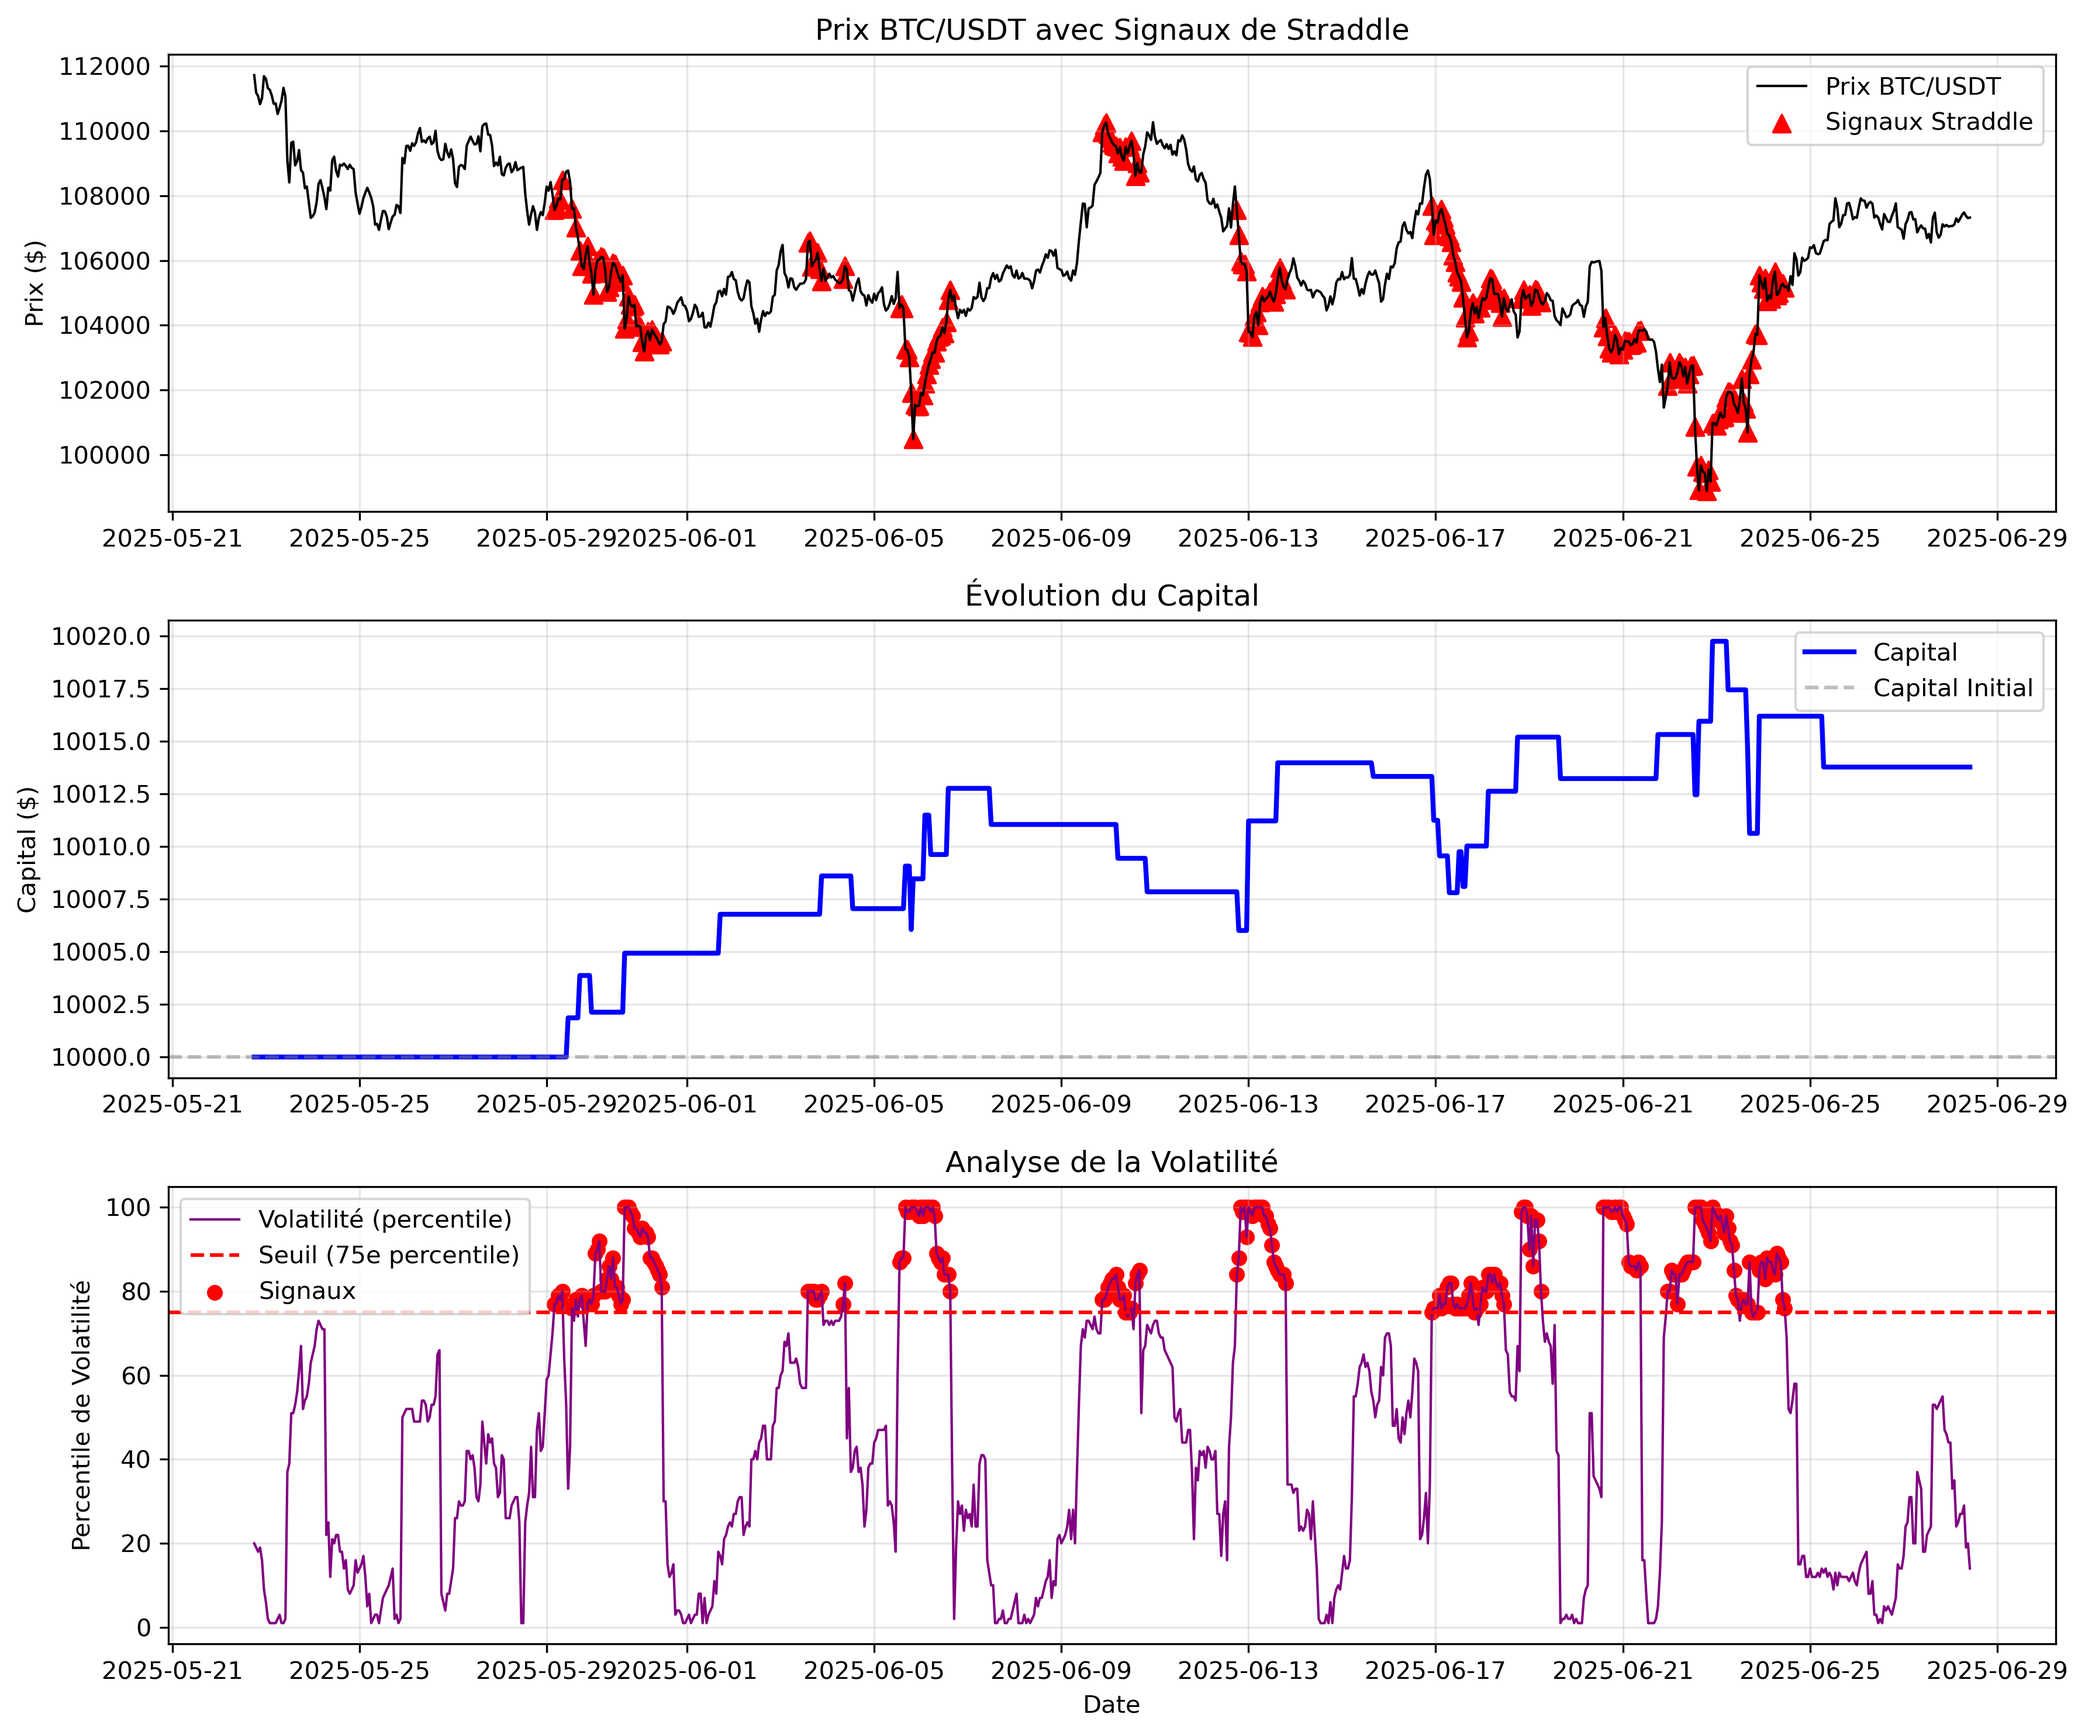
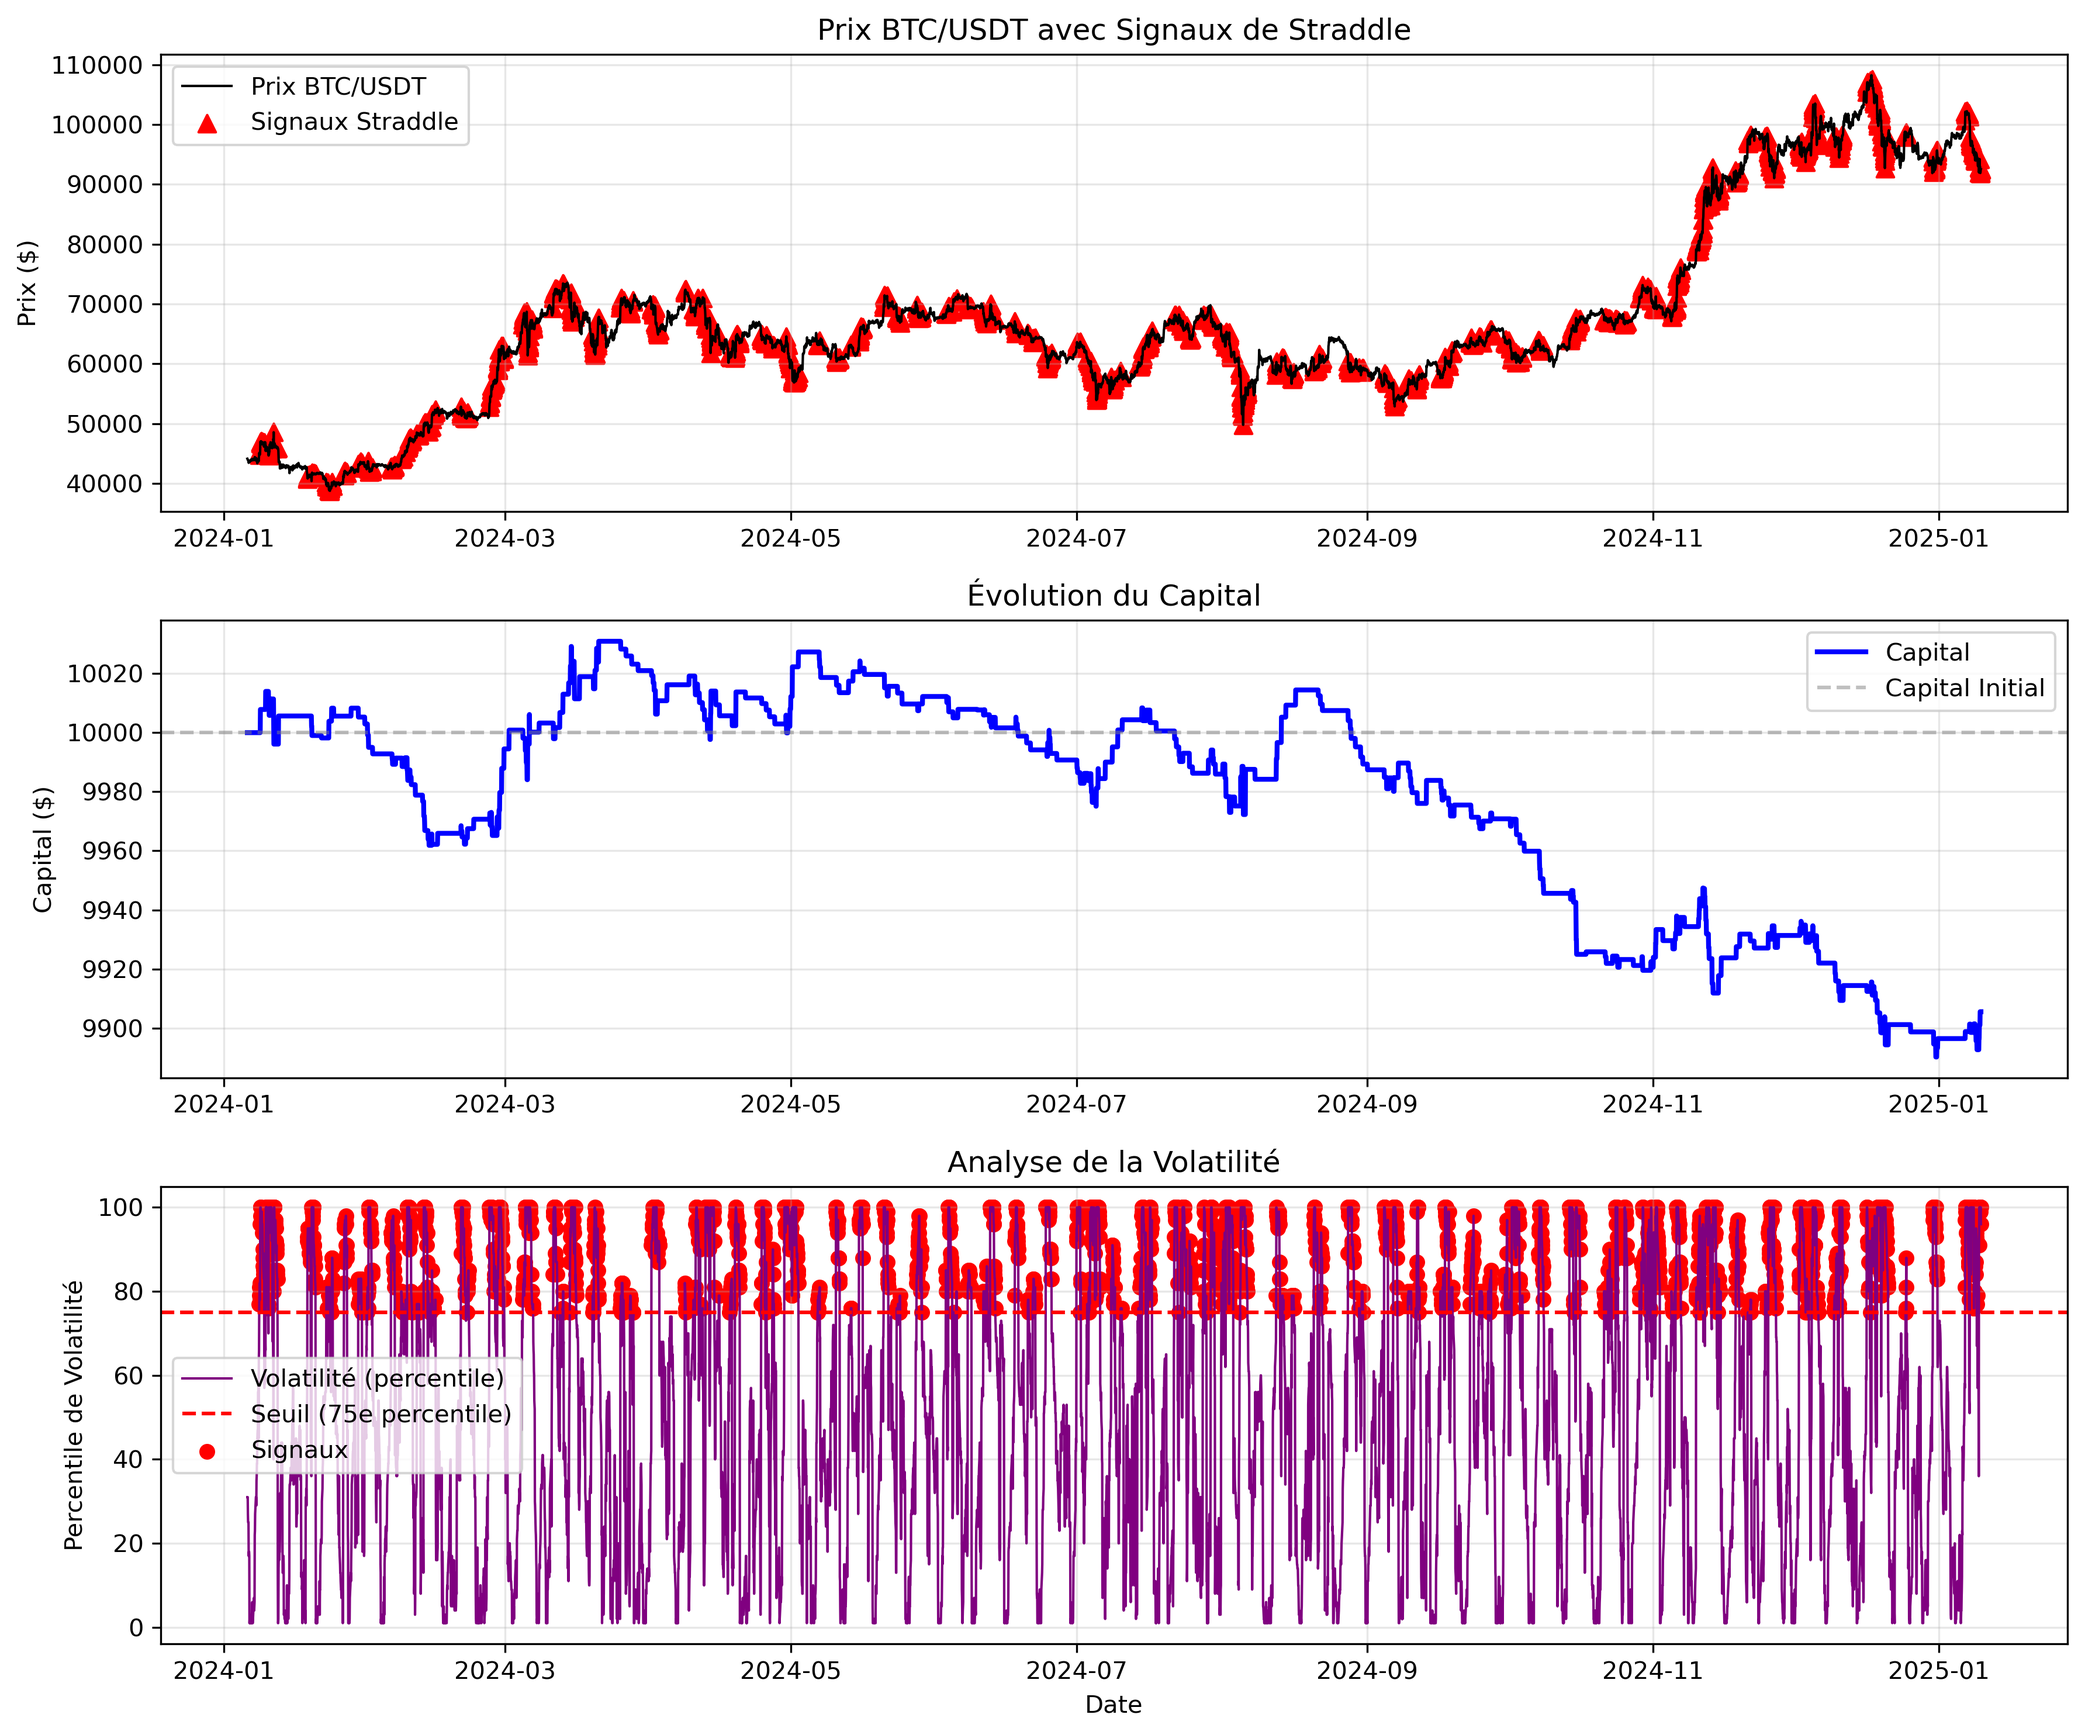
Ajout de la gestion des périodes de données dans la stratégie de straddle, avec des options pour utiliser des dates spécifiques ou un nombre de jours. Mise à jour de la récupération des données et des résultats d'affichage dans le backtest.

diff --git a/test3/data_manager.py b/test3/data_manager.py
@@ -23,56 +23,15 @@ class DataManager:
     
     def get_data(self):
         """
-        Récupère les données BTC/USDT selon la configuration de dates
+        Récupère les données BTC/USDT et calcule les indicateurs
         
         Returns:
             pandas.DataFrame: Données avec indicateurs
         """
         try:
+            # Récupération des données
             print(f"📊 Récupération des données {SYMBOL}...")
-            
-            if USE_DATE_RANGE:
-                # Utiliser les dates spécifiées
-                print(f"� Période: {START_DATE} → {END_DATE}")
-                
-                # Convertir les dates en timestamps
-                start_ts = int(pd.to_datetime(START_DATE).timestamp() * 1000)
-                end_ts = int(pd.to_datetime(END_DATE).timestamp() * 1000)
-                
-                # Récupérer toutes les données pour la période
-                all_data = []
-                current_ts = start_ts
-                
-                while current_ts < end_ts:
-                    # Récupérer par chunks de 1000 (limite API)
-                    data_chunk = self.exchange.fetch_ohlcv(
-                        SYMBOL, TIMEFRAME, since=current_ts, limit=1000
-                    )
-                    
-                    if not data_chunk:
-                        break
-                        
-                    all_data.extend(data_chunk)
-                    current_ts = data_chunk[-1][0] + 1
-                    
-                    # Protection contre les boucles infinies
-                    if len(all_data) > 50000:  # Limite de sécurité
-                        break
-                
-                data = all_data
-            else:
-                # Utiliser les X derniers jours
-                print(f"📅 Récupération des {DAYS_OF_DATA} derniers jours")
-                data = self.exchange.fetch_ohlcv(SYMBOL, TIMEFRAME, limit=DAYS_OF_DATA * 24)
-            
-            # Conversion en DataFrame
-            df = pd.DataFrame(data, columns=['timestamp', 'open', 'high', 'low', 'close', 'volume'])
-            df['timestamp'] = pd.to_datetime(df['timestamp'], unit='ms')
-            df.set_index('timestamp', inplace=True)
-            
-            # Filtrer exactement la période demandée si USE_DATE_RANGE
-            if USE_DATE_RANGE:
-                df = df[(df.index >= START_DATE) & (df.index < END_DATE)]
+            data = self.exchange.fetch_ohlcv(SYMBOL, TIMEFRAME, limit=DAYS_OF_DATA * 24)
             
             # Conversion en DataFrame
             df = pd.DataFrame(data, columns=['timestamp', 'open', 'high', 'low', 'close', 'volume'])

diff --git a/final-test/config.py b/final-test/config.py
@@ -4,7 +4,13 @@
 EXCHANGE_ID = 'binance'
 SYMBOL = 'BTC/USDT'
 TIMEFRAME = '1h'
-DAYS_OF_DATA = 365             # Nombre de jours de données à récupérer
+
+# Période de données (modifiez ces dates selon vos besoins)
+START_DATE = '2024-01-01'      # Date de début (YYYY-MM-DD)
+END_DATE = '2025-01-01'        # Date de fin (YYYY-MM-DD)
+# OU utilisez DAYS_OF_DATA pour les X derniers jours
+USE_DATE_RANGE = True          # True = utiliser START_DATE/END_DATE, False = utiliser DAYS_OF_DATA
+DAYS_OF_DATA = 365             # Nombre de jours de données (si USE_DATE_RANGE = False)
 
 # Paramètres de la stratégie (modifiez ces valeurs selon vos besoins)
 VOLATILITY_THRESHOLD = 75       # Seuil de volatilité (percentile)
@@ -16,3 +22,13 @@ TRADE_TIMEOUT_HOURS = 24        # Fermeture forcée après X heures
 INITIAL_CAPITAL = 10000         # Capital de départ
 RISK_PER_TRADE = 0.02          # 2% de risque par trade
 COMMISSION_RATE = 0.001        # 0.1% de commission
+
+# Paramètres de backtest
+BACKTEST_START_DATE = '2022-01-01'  # Date de début du backtest
+BACKTEST_END_DATE = '2024-12-31'    # Date de fin du backtest
+MAX_POSITIONS = 3                  # Nombre maximum de positions simultanées
+MAX_SPREAD = 0.005                 # Spread maximum acceptable (0.5%)
+MIN_PRICE_MOVEMENT = 0.0001        # Mouvement minimum de prix significatif
+RISK_FREE_RATE = 0.02              # Taux sans risque annuel pour calculs de performance
+OPTIMIZE_PARAMETERS = False        # Activation de l'optimisation des paramètres
+

diff --git a/final-test/main.py b/final-test/main.py
@@ -14,6 +14,16 @@ def main():
     print("🚀 Backtesting Stratégie Straddle - BTC/USDT")
     print("=" * 50)
     
+    # Afficher la configuration actuelle
+    if USE_DATE_RANGE:
+        print(f"📅 Période d'analyse: {START_DATE} → {END_DATE}")
+    else:
+        print(f"📅 Analyse des {DAYS_OF_DATA} derniers jours")
+    
+    print(f"🎯 Seuil volatilité: {VOLATILITY_THRESHOLD}e percentile")
+    print(f"💰 Capital initial: ${INITIAL_CAPITAL:,}")
+    print("-" * 50)
+    
     # Créer le dossier de sortie
     os.makedirs("output", exist_ok=True)
     
@@ -26,7 +36,7 @@ def main():
         print("❌ Erreur lors du chargement des données")
         return
     
-    print(f"✅ {len(df)} bougies chargées")
+    print(f"✅ {len(df)} bougies chargées ({df.index[0].strftime('%Y-%m-%d')} → {df.index[-1].strftime('%Y-%m-%d')})")
     
     # 2. Détection des signaux de trading
     print("🎯 Détection des signaux...")

diff --git a/test3/config.py b/test3/config.py
@@ -1,0 +1,18 @@
+# Configuration simple pour la stratégie de straddle BTC
+
+# Paramètres de base
+EXCHANGE_ID = 'binance'
+SYMBOL = 'BTC/USDT'
+TIMEFRAME = '1h'
+DAYS_OF_DATA = 365             # Nombre de jours de données à récupérer
+
+# Paramètres de la stratégie (modifiez ces valeurs selon vos besoins)
+VOLATILITY_THRESHOLD = 75       # Seuil de volatilité (percentile)
+TAKE_PROFIT_MULTIPLIER = 2.0    # Multiplicateur pour take profit
+STOP_LOSS_MULTIPLIER = 1.0      # Multiplicateur pour stop loss
+TRADE_TIMEOUT_HOURS = 24        # Fermeture forcée après X heures
+
+# Capital et risque
+INITIAL_CAPITAL = 10000         # Capital de départ
+RISK_PER_TRADE = 0.02          # 2% de risque par trade
+COMMISSION_RATE = 0.001        # 0.1% de commission

diff --git a/final-test/visualization.py b/final-test/visualization.py
@@ -97,3 +97,4 @@ def print_simple_results(results):
         print(f"💥 Pire Trade: {worst_trade:.2f}%")
     
     print("="*60)
+    
